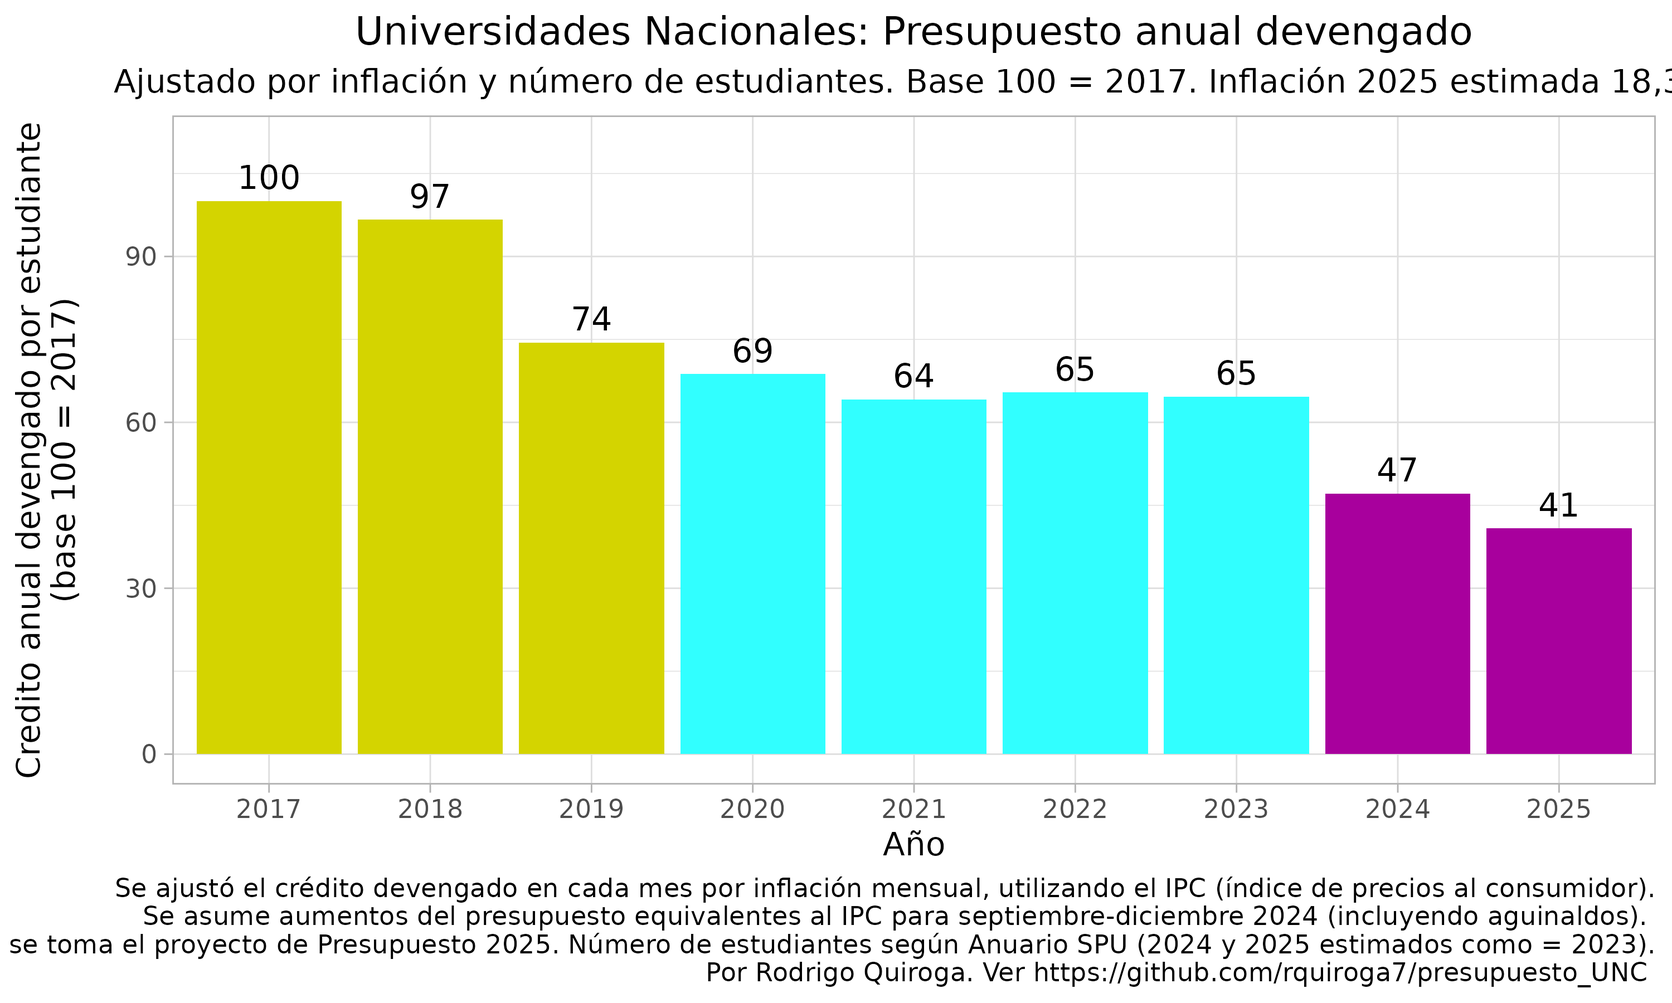
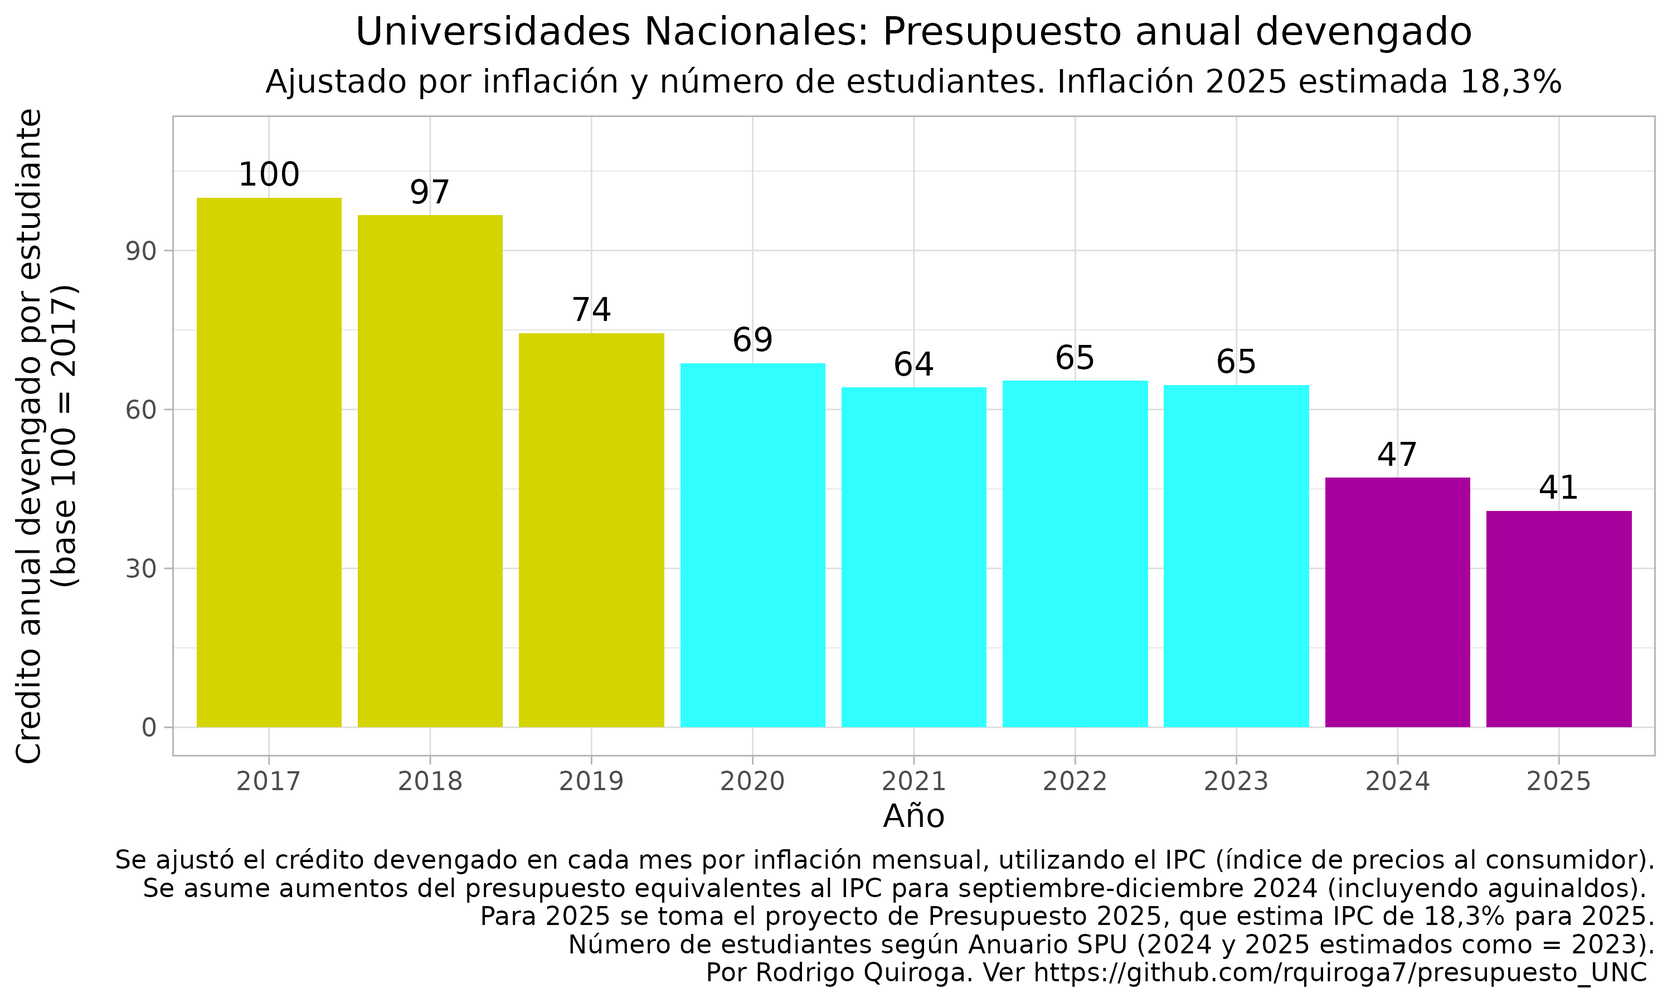
update readme

diff --git a/README.md b/README.md
@@ -1,7 +1,8 @@
-Ejecución presupuestaria 2024: Universidades Nacionales argentinas
+Universidades Nacionales públicas de Argentina: 
+Análisis de ejecución presupuestaria 2024 y presupuesto 2025
 =================================================================================
 
-Última actualización 11/09/2024
+Última actualización 20/09/2024
 
  **Dr. Rodrigo Quiroga**  
  Investigador Asistente INFIQC-CONICET  
@@ -9,12 +10,83 @@ Ejecución presupuestaria 2024: Universidades Nacionales argentinas
  Facultad de Ciencias Químicas, Universidad Nacional de Córdoba
 
  Repositorio disponible con todo el código utilizado para descargar, analizar y graficar los datos de ejecución presupuestaria de Universidades Nacionales [aquí](https://github.com/rquiroga7/presupuesto_UNC).
+ 
+Ejecución presupuestaria mensual de 2023 y 2024
+============
+
+Presupuesto de funcionamiento
+-----------------------------
+<div align="justify">
+ 
+El presupuesto de funcionamiento para enero y febrero de 2024  se mantuvo exactamente igual al de 2023, en términos nominales. Es decir, el crédito devengado en pesos fue exactamente el mismo desde enero de 2023 a febrero de 2024. Cabe aclarar que el presupuesto para funcionamiento anual se calcula en agosto o septiembre del año anterior, en base a la inflación esperada para el año siguiente. Luego, ese monto se divide por 12 y se envía ese monto en cada mes del año. Por lo tanto, durante 2023 el presupuesto de funcionamiento no estuvo "congelado" como dijo el actual subsecretario de políticas universitarias [aquí](https://x.com/AleCiroAlvarez/status/1768374421440410066)), sino que se enviaron montos superiores a la inflación durante los primeros meses del año, y luego montos un poco inferiores. Justamente, lo esperable para 2024, es que se actualizara el monto en base a la inflación de 2023 y la esperada para 2024, estimando un nuevo presupuesto anual de funcionamiento, que debería haberse dividido en 12. El CIN envió esa propuesta de presupuesto, pero el gobierno no la respetó, sino que como estipula el [Decreto 23/2024](https://www.boletinoficial.gob.ar/detalleAviso/primera/301615/20240105), se volvieron a utilizar los montos de 2023, sin ajustar por inflación. Todo esto fue explicado en detalle por Jorge Aliaga (Secretario de Planeamiento y Evaluación Institucional de la UNAHUR y actual miembro del directorio de CONICET en representación de las Universidades Nacionales) [en este hilo de Twitter](https://x.com/jorgeluisaliaga/status/1769806057600081985).
+
+También es importante explicar que las Universidades Nacionales en muchos casos generan fondos propios que se destinan a funcionamiento (en general por prestación de servicios). Sin embargo, en la mayoría de las Universidades el presupuesto enviado por el gobierno nacional para tal fin es determinante.
+
+En el siguiente gráfico observamos el presupuesto mensual real (ajustado por inflación) para funcionamiento de todas las Universidades Nacionales del país. Se grafica también el promedio mensual 2023 como una línea punteada verde. Vemos que como explicamos en la introducción, el presupuesto de funcionamiento se fija en 12 cuotas iguales, por lo que los montos ajustados por inflación están por arriba del promedio anual durante los primeros meses del año y luego caen por debajo. Esto ocurre TODOS LOS AÑOS. Lo que no ocurrió, fue el aumento normal que ocurre con un nuevo presupuesto, que debería haber entrado en vigencia en enero de 2024.
+
+![plot](https://github.com/rquiroga7/presupuesto_UNC/blob/main/plots/plot_14_70p_prom.png)
+
+Vemos que en Marzo de 2024 y en Mayo (luego de la masiva marcha federal universitaria) se otorgaron aumentos del presupuesto mensual de funcionamiento que equiparan aproximadamente los montos recibidos mensualmente durante 2023.
+
+Además, vale aclarar que con los [aumentos de tarifas de servicios previstos para 2024](https://www.infobae.com/economia/2024/04/05/tarifas-de-gas-todo-lo-que-hay-que-saber-y-de-cuanto-seran-los-nuevos-aumentos/), y el hecho de que [el gobierno eliminó a las instituciones educativas de los subsidios de energía eléctrica](https://www.datadiario.com/sociedad/aumentan-las-facturas-de-luz-para-usuarios-de-mayores-ingresos-20242518120), incluso estos aumentos otorgados resultan insuficientes para afrontar los costos de funcionamiento, que aumentaron por encima de la inflación durante 2024.
+
+</div>
+
+Presupuesto total
+-----------------
+
+En el siguiente gráfico observamos el presupuesto mensual real total (ajustado por inflación), de todas las Universidades Nacionales del país. Se grafica también el promedio mensual 2023 como una línea punteada verde (calculado sobre los meses sin aguinaldo). Vemos que los presupuestos mensuales asignados están muy por debajo de 2023.
+
+![plot](https://github.com/rquiroga7/presupuesto_UNC/blob/main/plots/plot_all_70p_prom.png)
+
+
+**Como vemos en el gráfico, los aumentos de gastos de funcionamiento de marzo y mayo (acumulando un 270% aumento interanual) anunciado por el gobierno con bombos y platillos, en realidad representan un aumento del 2.2% del presupuesto total!**
+Es claro que los aumentos otorgados por el gobierno en marzo y mayo, representan un porcentaje ínfimo del monto perdido por inflación en comparación al 2023.
+
+Ejecución presupuestaria anual para el período 2017-2025
+============
+
+Para poner en contexto histórico el presupuesto 2024 y también el recientemente presentado presupuesto 2025, comparamos la ejecución presupuestaria 2017-2023 con la ejecución presupuestaria 2024 (asumiendo que el presupuesto se ajustaría por inflación (IPC) a partir de octubre) y el presupuesto 2025, tomando como válida la estimación del gobierno de 18,3% de inflación anual para 2025. Ambas presunciones son muy optimistas, es decir, estamos analizando los presupuestos 2024 y 2025 en el mejor de los casos. 
+
+Presupuesto total:
+![plot](https://github.com/rquiroga7/presupuesto_UNC/blob/main/plots/presupuesto_anual_2017-2025.png)
+
+De no haber significativos aumentos en lo que queda de 2024, el presupuesto universitario del corriente año sería por lejos el menor desde que se comenzaron a recopilar datos de Presupuesto Abierto. El presupuesto ajustado por inflación de 2024 representaría el 73% del presupuesto universitario de 2023. El presupuesto 2025 es aún menor, representando el 63% del presupuesto 2023, y recordando que si la inflación anual es superior al 18,3% que estima el gobierno, el presupuesto real 2025 sería aún menor!
+
+
+Podemos analizar estos mismos datos con base 100 equivalente al presupuesto de 2017. 
+
+![plot](https://github.com/rquiroga7/presupuesto_UNC/blob/main/plots/presupuesto_anual_100_2017-2025.png)
+
+Este gráfico es un poco más intuitivo. Lo que observamos es que el presupuesto cayó fuertemente durante 2019, creció levemente desde 2020-2023 y en 2024 observamos la mayor caída de la serie histórica, con una nueva caída en 2025. Para 2025 el presupuesto ajustado por inflación sería un 56% del presupuesto 2017 si la inflación 2025 es del 18,3%, pero podría caer a 51% si la inflación 2025 se acerca al 38% como [estiman algunas consultoras](https://www.infobae.com/economia/2024/09/17/presupuesto-2025-el-nivel-de-inflacion-que-estimo-el-gobierno-es-menos-de-la-mitad-que-las-proyecciones-privadas/).
+
+Sin embargo, esto no alcanza para dimensionar por completo la magnitud de la crisis universitaria, dado que el número de alumnos del sistema universitario nacional ha aumentado considerablemente desde 2017. Realizando el mismo análisis de arriba, pero ajustamos el presupuesto por inflación, pero también por el número total de alumnos universitarios, nuevamente tomando el presupuesto por alumno del año 2017 como base igual a 100.
+
+![plot](https://github.com/rquiroga7/presupuesto_UNC/blob/main/plots/presupuesto_anual_porest_100_2017-2025.png)
+
+Este gráfico permite dimensionar la crisis presupuestaria del sistema universitario en toda su magnitud. Observamos que por cada 100 pesos de poder adquisitivo por estudiante que recibían las universidades públicas en 2017, en 2024 se recibirán 47, es decir, menos de la mitad. En 2025, ese valor cae a 41 si la inflación anual 2025 es de 18,3%, o a 37 si la inflación 2025 es de 38%. Es decir, en 2025 las Universidades podrían llegar a recibir aproximadamente 1/3 del presupuesto por alumno que recibían en 2017.
+
+
+Conclusiones
+============
+
+**La situación presupuestaria de las Universidades es crítica.** Ya se encuentran suspendidos programas valiosísimos de becas, investigación y extensión universitaria, y el presupuesto es tan escueto que muchas universidades están gastando ahorros para poder pagar las tarifas de servicios básicos. Ya entró en cesación de pagos la Universidad Nacional del Comahue, a pesar de que aún no entran en efecto todos los incrementos de tarifas programados por el gobierno para este año 2024. 
+**La ley de financiamiento universitario que fue sancionada el 12 de septiembre en el senado corre peligro de ser vetada por el presidente Milei. No es una panacea, ya que la situación presupuestaria de las universidades ya era complicada en 2022 y 2023, pero permitiría garantizar la continuidad de las clases, retrotrayendo la situación presupuestaria y salarial a la de noviembre de 2023.** Esto no es "campaña de miedo" sino un necesario llamado de atención sobre el ajuste *que ya efectuó* el gobierno nacional. El CIN se ha puesto al frente de estos reclamos ante el Ministerio de Capital Humano, pero también creo necesario que comuniquemos ampliamente esta emergencia presupuestaria a docentes, no-docentes y estudiantes. La urgencia de la situación es clara para la mayoría de los rectores, pero no es de amplio conocimiento en la totalidad de la comunidad universitaria. Aún estamos a tiempo de ponernos de pie y defender la Universidad Pública, aunque el tiempo se nos acaba rápidamente y muchas autoridades mantienen un silencio que aturde. 
+
+ *Comentario adicional respecto a la situación salarial docente*  
+Adicionalmente, no entramos en detalles sobre el tema en este informe, pero la pérdida de poder adquisitivo de los docentes universitarios también es un componente crítico que amenaza la continuidad de las clases en la segunda mitad del año. Adicionalmente a las paupérrimas paritarias docentes, la inexistencia de convocatoria a paritaria nacional para discutir el aumento de la garantía salarial lleva a que muchos docentes universitarios jóvenes, con cargos de dedicación simple y antiguedad menor a 5 años hayan recibido aumentos del 0% durante los meses de enero, febrero, marzo y abril. Muchos de ellos comienzan a presentar sus renuncias a pesar de su vocación y amor por la docencia. La situación es insostenible.
+
+El gobierno anunció aumentos salariales del 3% para agosto y septiembre, y ha declarado que  [habría congelamiento de los salarios en octubre, noviembre y diciembre](https://www.eldiarioar.com/economia/gobierno-planifica-congelar-sueldos-estatales-ano-despues-otorgar-3-septiembre-octubre_1_11628962.html). De ser así, y la inflación mensual continúa su tendencia de mantenerse alrededor de 4%, los salarios reales de los docentes más jóvenes de nuestras universidades habrían perdido la mitad de su poder adquisitivo en 1 año de gobierno de Javier Milei. La situación es aún más drástica dado que la brecha salarial entre docentes universitarios de universidades privadas y públicas se ha ampliado a 2, 3 y hasta 4 veces en algunos casos.
+
+
+![plot](https://github.com/rquiroga7/presupuesto_UNC/blob/main/plots/salario_profesor_ayudante_ds.png)
+Podemos observar esto en el gráfico de salario mensual de bolsillo de un profesor ayudante A (DS) en azul, que en diciembre de 2024 cobraría 145 mil pesos mensuales, cuando su sueldo de noviembre de 2023 ajustado por inflación sería de 297 mil pesos, más del doble!
 
 INTRODUCCIÓN Y METODOLOGÍA
 ============
 
 <details>
-<summary>Expandir para leer la sección de introducción y metodología</summary>
+<summary>Para quien quiera entrar en detalles metodológicos, expandir para leer la sección de introducción y metodología</summary>
 
 <div align="justify">
  
@@ -43,74 +115,5 @@ Como metodología, en general vamos a mostrar gráficos de ejecución presupuest
 El código de bash y R utilizado para descargar, analizar y graficar los datos de ejecución presupuestaria de 2017-2024 están disponibles abiertamente en este repositorio. Los datos se descargan de la API de Presupuesto abierto (aunque no es necesario que el usuario los descargue ya que están disponibles en este repositorio). El script API_datos.R analiza y genera los gráficos de ejecución presupuestaria mensual, y los scripts UNC_2015-2024.R y 2015_2024.R generan los gráficos anuales, para la UNC y para la totalidad de las Universidades Nacionales, respectivamente. 
 </details>
 </div>
- 
-Ejecución presupuestaria mensual de 2023 y 2024
-============
-
-Presupuesto de funcionamiento
------------------------------
-<div align="justify">
- 
-El presupuesto de funcionamiento para enero y febrero de 2024  se mantuvo exactamente igual al de 2023, en términos nominales. Es decir, el crédito devengado en pesos fue exactamente el mismo desde enero de 2023 a febrero de 2024. Cabe aclarar que el presupuesto para funcionamiento anual se calcula en agosto o septiembre del año anterior, en base a la inflación esperada para el año siguiente. Luego, ese monto se divide por 12 y se envía ese monto en cada mes del año. Por lo tanto, durante 2023 el presupuesto de funcionamiento no estuvo "congelado" como dijo el actual subsecretario de políticas universitarias [aquí](https://x.com/AleCiroAlvarez/status/1768374421440410066)), sino que se enviaron montos superiores a la inflación durante los primeros meses del año, y luego montos un poco inferiores. Justamente, lo esperable para 2024, es que se actualizara el monto en base a la inflación de 2023 y la esperada para 2024, estimando un nuevo presupuesto anual de funcionamiento, que debería haberse dividido en 12. El CIN envió esa propuesta de presupuesto, pero el gobierno no la respetó, sino que como estipula el [Decreto 23/2024](https://www.boletinoficial.gob.ar/detalleAviso/primera/301615/20240105), se volvieron a utilizar los montos de 2023, sin ajustar por inflación. Todo esto fue explicado en detalle por Jorge Aliaga (Secretario de Planeamiento y Evaluación Institucional de la UNAHUR y actual miembro del directorio de CONICET en representación de las Universidades Nacionales) [en este hilo de Twitter](https://x.com/jorgeluisaliaga/status/1769806057600081985).
-
-También es importante explicar que las Universidades Nacionales en muchos casos generan fondos propios que se destinan a funcionamiento (en general por prestación de servicios). Sin embargo, en la mayoría de las Universidades el presupuesto enviado por el gobierno nacional para tal fin es determinante.
-
-En el siguiente gráfico observamos el presupuesto mensual real (ajustado por inflación) para funcionamiento de todas las Universidades Nacionales del país. Se grafica también el promedio mensual 2023 como una línea punteada verde. Vemos que como explicamos en la introducción, el presupuesto de funcionamiento se fija en 12 cuotas iguales, por lo que los montos ajustados por inflación están por arriba del promedio anual durante los primeros meses del año y luego caen por debajo. Esto ocurre TODOS LOS AÑOS. Lo que no ocurrió, fue el aumento normal que ocurre con un nuevo presupuesto, que debería haber entrado en vigencia en enero de 2024.
-
-![plot](https://github.com/rquiroga7/presupuesto_UNC/blob/main/plots/plot_14_70p_prom.png)
-
-Vemos que en Marzo de 2024 y en Mayo (luego de la masiva marcha federal universitaria) se otorgaron aumentos del presupuesto mensual de funcionamiento que equiparan aproximadamente los montos recibidos mensualmente durante 2023.
-
-Además, vale aclarar que con los [aumentos de tarifas de servicios previstos para 2024](https://www.infobae.com/economia/2024/04/05/tarifas-de-gas-todo-lo-que-hay-que-saber-y-de-cuanto-seran-los-nuevos-aumentos/), y el hecho de que [el gobierno eliminó a las instituciones educativas de los subsidios de energía eléctrica](https://www.datadiario.com/sociedad/aumentan-las-facturas-de-luz-para-usuarios-de-mayores-ingresos-20242518120), incluso estos aumentos otorgados resultan insuficientes para afrontar los costos de funcionamiento que aumentaron por encima de la inflación durante 2024.
-
-</div>
-
-Presupuesto total
------------------
-
-En el siguiente gráfico observamos el presupuesto mensual real total (ajustado por inflación), de todas las Universidades Nacionales del país. Se grafica también el promedio mensual 2023 como una línea punteada verde (calculado sobre los meses sin aguinaldo). Vemos que los presupuestos mensuales asignados están muy por debajo de 2023.
-
-![plot](https://github.com/rquiroga7/presupuesto_UNC/blob/main/plots/plot_all_70p_prom.png)
-
-
-**Como vemos en el gráfico, los aumentos de gastos de funcionamiento de marzo y mayo (acumulando un 270% aumento interanual) anunciado por el gobierno con bombos y platillos, en realidad representan un aumento del 2.2% del presupuesto total!**
-Es claro que los aumentos otorgados por el gobierno en marzo y mayo, representan un porcentaje ínfimo del monto perdido por inflación en comparación al 2023, que es de aproximadamente 80 mil millones de pesos mensuales!
-
-Ejecución presupuestaria anual para el período 2017-2024
-============
-
-Para poner en contexto histórico el presupuesto 2024, realizamos el siguiente ejercicio. Realizamos la optimista presunción de que el presupuesto se ajustaría por inflación (IPC) a partir de octubre, y comparamos ese presupuesto anual ajustado por inflación con años anteriores. Es decir, calculamos cual sería el presupuesto anual para 2024 si no hay aumentos del presupuesto y si a partir de octubre se ajusta por IPC. Estimo el presupuesto de diciembre como noviembre*1.60 debido al medio aguinaldo. 
-
-Presupuesto total:
-![plot](https://github.com/rquiroga7/presupuesto_UNC/blob/main/plots/presupuesto_anual_2017-2024.png)
-
-De no haber significativos aumentos durante 2024, el presupuesto universitario del corriente año sería por lejos el menor desde que se comenzaron a recopilar datos de Presupuesto Abierto. El presupuesto ajustado por inflación de 2024 representaría el 80% del presupuesto 2023.
-
-
-Podemos analizar estos mismos datos con base 100 equivalente al presupuesto de 2017. Este gráfico es un poco más intuitivo. Lo que observamos es que el presupuesto cayó enormemente durante 2019, creció levemente desde 2020-2023 y vuelve a caer fuertemente en 2024.
-
-![plot](https://github.com/rquiroga7/presupuesto_UNC/blob/main/plots/presupuesto_anual_100_2017-2024.png)
-
-
-Sin embargo, esto no alcanza para dimensionar por completo la magnitud de la crisis universitaria, dado que el número de alumnos del sistema universitario nacional ha aumentado considerablemente desde 2017. Realizando el mismo análisis de arriba, pero ajustamos el presupuesto por inflación, pero también por el número total de alumnos universitarios, nuevamente tomando el presupuesto por alumno del año 2017 como base igual a 100.
-
-![plot](https://github.com/rquiroga7/presupuesto_UNC/blob/main/plots/presupuesto_anual_porest_100_2017-2024.png)
-
-Aquí sí podemos dimensionar la crisis presupuestaria del sistema universitario, observamos que por cada 100 pesos por estudiante que recibían las universidades en 2017, hoy se reciben 49, es decir, menos de la mitad. 
-
-Consideraciones finales
-============
-
-**La situación presupuestaria de las Universidades es crítica.** Ya se encuentran suspendidos programas valiosísimos de becas, investigación y extensión universitaria, pero aún así, el presupuesto es tan escueto que las universidades están gastando ahorros para poder pagar las tarifas de servicios básicos. Ya entró en cesación de pagos la Universidad Nacional del Comahue, a pesar de que aún no entran en efecto todos los incrementos de tarifas programados por el gobierno para este año 2024. 
-**La ley de financiamiento universitario que ya tiene media sanción y se va a tratar mañana 12 de septiembre en el senado. No es una panacea, ya que la situación presupuestaria de las universidades ya era complicada en 2022 y 2023, pero permitiría garantizar la continuidad de las clases, retrotrayendo la situación presupuestaria y salarial a la de noviembre de 2023.** Esto no es "campaña de miedo" sino un necesario llamado de atención sobre el ajuste *que ya efectuó* el gobierno nacional, pero cuyos efectos aún no vemos en su plenitud en todas las universidades. El CIN se ha puesto al frente de estos reclamos ante el Ministerio de Capital Humano, pero también creo necesario que comuniquemos ampliamente esta emergencia presupuestaria a docentes, no-docentes y estudiantes. La urgencia de la situación es clara para la mayoría de los rectores, pero no es de amplio conocimiento en la totalidad de la comunidad universitaria. Aún estamos a tiempo de ponernos de pie y defender la Universidad Pública, aunque el tiempo se nos acaba rápidamente y muchas autoridades mantienen un silencio que aturde. 
-
- *Comentario adicional respecto a la situación salarial docente*  
-Adicionalmente, no entramos en detalles sobre el tema en este informe, pero la pérdida de poder adquisitivo de los docentes universitarios también es un componente crítico que amenaza la continuidad de las clases en la segunda mitad del año. Adicionalmente a las paupérrimas paritarias docentes, la inexistencia de convocatoria a paritaria nacional para discutir el aumento de la garantía salarial lleva a que muchos docentes universitarios jóvenes, con cargos de dedicación simple y antiguedad menor a 5 años hayan recibido aumentos del 0% durante los meses de enero, febrero, marzo y abril. Muchos de ellos comienzan a presentar sus renuncias a pesar de su vocación y amor por la docencia. La situación es insostenible.
-
-El gobierno anunció aumentos salariales del 3% para agosto y septiembre, y ha declarado que  [habría congelamiento de los salarios en octubre, noviembre y diciembre](https://www.eldiarioar.com/economia/gobierno-planifica-congelar-sueldos-estatales-ano-despues-otorgar-3-septiembre-octubre_1_11628962.html). De ser así, y la inflación mensual continúa su tendencia de mantenerse alrededor de 4%, los salarios reales de los docentes más jóvenes de nuestras universidades habrían perdido la mitad de su poder adquisitivo en 1 año de gobierno de Javier Milei. La situación es aún más drástica dado que la brecha salarial entre docentes universitarios de universidades privadas y públicas se ha ampliado a 2, 3 y hasta 4 veces en algunos casos.
-
-
-![plot](https://github.com/rquiroga7/presupuesto_UNC/blob/main/plots/salario_profesor_ayudante_ds.png)
-Podemos observar esto en el gráfico de salario mensual de bolsillo de un profesor ayudante A (DS) en azul, que en diciembre de 2024 cobraría 145 mil pesos mensuales, cuando su sueldo de noviembre de 2023 ajustado por inflación sería de 297 mil pesos, más del doble!
 
 Para descargar este informe en versión PDF, click [aquí](https://github.com/rquiroga7/presupuesto_UNC/raw/main/informe_pres_univ.pdf?raw=1).
